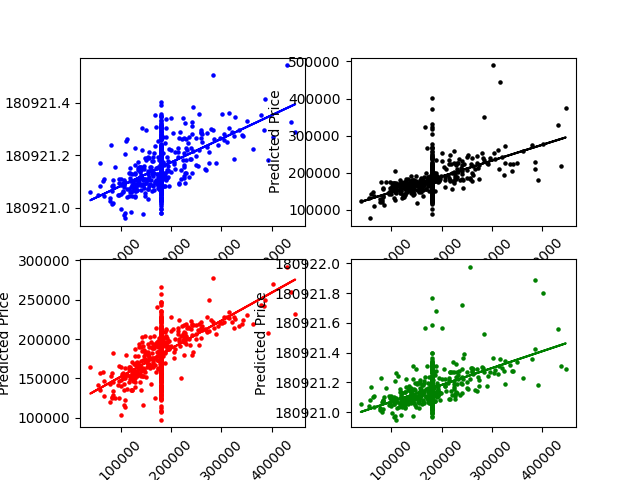
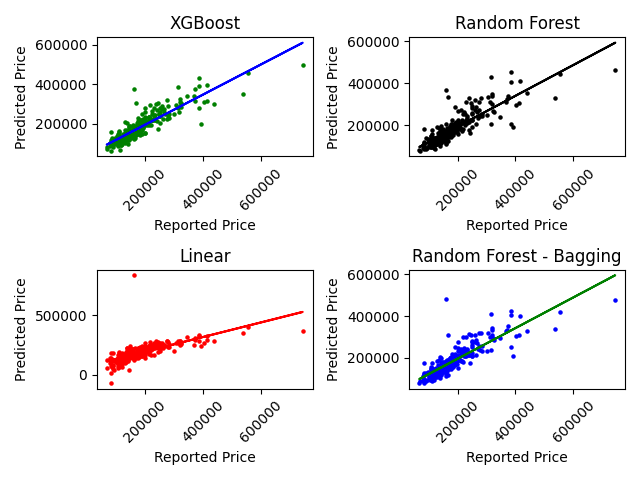
V3

diff --git a/test.py b/test.py
@@ -14,6 +14,7 @@ from sklearn.metrics import mean_absolute_percentage_error
 from sklearn.ensemble import RandomForestRegressor
 from sklearn.ensemble import BaggingRegressor
 from sklearn.linear_model import LinearRegression
+import xgboost as xgb
 from sklearn.metrics import accuracy_score
 
 # import dataset
@@ -84,7 +85,10 @@ plt.close(fig)
 dataset.drop(['Id'], axis=1, inplace=True)
 
 # SalePrice has empty values. We can replace them with mean values to make the distribution symmetric instead of skewed.
-dataset['SalePrice'] = dataset['SalePrice'].fillna(dataset['SalePrice'].mean())
+# dataset['SalePrice'] = dataset['SalePrice'].fillna(dataset['SalePrice'].mean())
+# This has unintended consequence of creating single value cluster at the mean price point. Instead we can remove
+# the entries with missing SalePrice values
+dataset.dropna(subset=['SalePrice'], inplace=True)
 
 # drop all null values from dataset
 new_dataset = dataset.dropna()
@@ -135,9 +139,18 @@ model_LR.fit(X_train, Y_train)
 Y_pred_lr = model_LR.predict(X_valid)
 print(mean_absolute_percentage_error(Y_valid, Y_pred_lr))
 
-# SVM provides the best estimate
+# XGBoost model
+model_XGB = xgb.XGBRegressor(objective='reg:squarederror', n_estimators=100, learning_rate=0.1, max_depth=3)
+model_XGB.fit(X_train, Y_train)
+Y_pred_xgb = model_XGB.predict(X_valid)
+print(mean_absolute_percentage_error(Y_valid, Y_pred_xgb))
+
+# XGBoost provides the best estimate followed by SVM. However, if we remove the entries with missing SalePRice data,
+# XGBoost has best estimates followed by random forest
 # apply bagging to see if prediction can be improved
-regr = BaggingRegressor(estimator=svm.SVR(), n_estimators=10, random_state=0).fit(X_train, Y_train)
+#regr = BaggingRegressor(estimator=svm.SVR(), n_estimators=10, random_state=0).fit(X_train, Y_train)
+regr = BaggingRegressor(estimator=RandomForestRegressor(), n_estimators=10, random_state=0).fit(X_train, Y_train)
+#regr = BaggingRegressor(estimator=xgb.XGBRegressor(objective='reg:squarederror', n_estimators=100, learning_rate=0.1, max_depth=3), n_estimators=10, random_state=0).fit(X_train, Y_train)
 Y_pred_bag = regr.predict(X_valid)
 print(mean_absolute_percentage_error(Y_valid, Y_pred_bag))
 
@@ -146,18 +159,24 @@ print(mean_absolute_percentage_error(Y_valid, Y_pred_bag))
 slope_svm, intercept_svm = np.polyfit(Y_valid, Y_pred_svm, 1)
 slope_rfr, intercept_rfr = np.polyfit(Y_valid, Y_pred_rfr, 1)
 slope_lr, intercept_lr = np.polyfit(Y_valid, Y_pred_lr, 1)
+slope_xgb, intercept_xgb = np.polyfit(Y_valid, Y_pred_xgb, 1)
 slope_bag, intercept_bag = np.polyfit(Y_valid, Y_pred_bag, 1)
 svm_fit = slope_svm * Y_valid + intercept_svm
 rfr_fit = slope_rfr * Y_valid + intercept_rfr
 lr_fit = slope_lr * Y_valid + intercept_lr
+xgb_fit = slope_xgb * Y_valid + intercept_xgb
 bag_fit = slope_bag * Y_valid + intercept_bag
+
+# SVM has very poor performance so we drop it from our visualization
+# Applying bagging technique to Random Forest Regressor instead gives good results (almost as good as XGBoost).
 
 fig = plt.figure()
 ax1 = fig.add_subplot(2, 2, 1)
-ax1.scatter(Y_valid.tolist(), Y_pred_svm.tolist(), s=5, c='b')
-ax1.plot(Y_valid, svm_fit, color='b', label='SVM Best Fit')
+ax1.scatter(Y_valid.tolist(), Y_pred_xgb.tolist(), s=5, c='g')
+ax1.plot(Y_valid, xgb_fit, color='b', label='XGBoost Best Fit')
 ax1.set_xlabel("Reported Price")
 ax1.set_ylabel("Predicted Price")
+ax1.set_title('XGBoost')
 ax1.tick_params(axis='x', labelrotation=45)
 ax1.ticklabel_format(useOffset=False, style='plain')
 ax2 = fig.add_subplot(2, 2, 2)
@@ -165,6 +184,7 @@ ax2.scatter(Y_valid.tolist(), Y_pred_rfr.tolist(), s=5, c='k')
 ax2.plot(Y_valid, rfr_fit, color='k', label='RF Best Fit')
 ax2.set_xlabel("Reported Price")
 ax2.set_ylabel("Predicted Price")
+ax2.set_title('Random Forest')
 ax2.tick_params(axis='x', labelrotation=45)
 ax2.ticklabel_format(useOffset=False, style='plain')
 ax3 = fig.add_subplot(2, 2, 3)
@@ -172,14 +192,39 @@ ax3.scatter(Y_valid.tolist(), Y_pred_lr.tolist(), s=5, c='r')
 ax3.plot(Y_valid, lr_fit, color='r', label='LR Best Fit')
 ax3.set_xlabel("Reported Price")
 ax3.set_ylabel("Predicted Price")
+ax3.set_title('Linear')
 ax3.tick_params(axis='x', labelrotation=45)
 ax3.ticklabel_format(useOffset=False, style='plain')
 ax4 = fig.add_subplot(2, 2, 4)
-ax4.scatter(Y_valid.tolist(), Y_pred_bag.tolist(), s=5, c='g')
-ax4.plot(Y_valid, bag_fit, color='g', label='SVM - Bagging Best Fit')
+ax4.scatter(Y_valid.tolist(), Y_pred_bag.tolist(), s=5, c='b')
+#ax4.plot(Y_valid, bag_fit, color='g', label='SVM - Bagging Best Fit')
+ax4.plot(Y_valid, bag_fit, color='g', label='RF - Bagging Best Fit')
 ax4.set_xlabel("Reported Price")
 ax4.set_ylabel("Predicted Price")
+ax4.set_title('Random Forest - Bagging')
 ax4.tick_params(axis='x', labelrotation=45)
 ax4.ticklabel_format(useOffset=False, style='plain')
+plt.tight_layout()
 fig.savefig('./outputs/compare_models_1.png')
 plt.close(fig)
+
+# generate residuals plot
+fig = plt.figure()
+data_residuals = pd.DataFrame({'X': Y_valid.tolist(), 'Y': Y_pred_xgb.tolist()})
+sns.residplot(x='X', y='Y', data=data_residuals, lowess=True, line_kws={'color': 'g'})
+data_residuals = pd.DataFrame({'X': Y_valid.tolist(), 'Y': Y_pred_rfr.tolist()})
+sns.residplot(x='X', y='Y', data=data_residuals, lowess=True, line_kws={'color': 'k'})
+data_residuals = pd.DataFrame({'X': Y_valid.tolist(), 'Y': Y_pred_lr.tolist()})
+sns.residplot(x='X', y='Y', data=data_residuals, lowess=True, line_kws={'color': 'r'})
+data_residuals = pd.DataFrame({'X': Y_valid.tolist(), 'Y': Y_pred_bag.tolist()})
+sns.residplot(x='X', y='Y', data=data_residuals, lowess=True, line_kws={'color': 'b'})
+plt.xlabel("Reported Price")
+plt.ylabel("Residuals")
+plt.title("Residual Plot")
+plt.axhline(0, color='grey', linestyle='--')  # Add a horizontal line at y=0
+fig.savefig('./outputs/compare_models_2.png')
+plt.close(fig)
+
+# the residuals plot clearly shows poor predictive capability of models at higher prices, likely due to fewer data
+# points. Also, random forest and XGBoost show similar performance and RF may be chosen doue to lower compute needs.
+# Bagging does not improve performance to any significant extent for this dataset.
